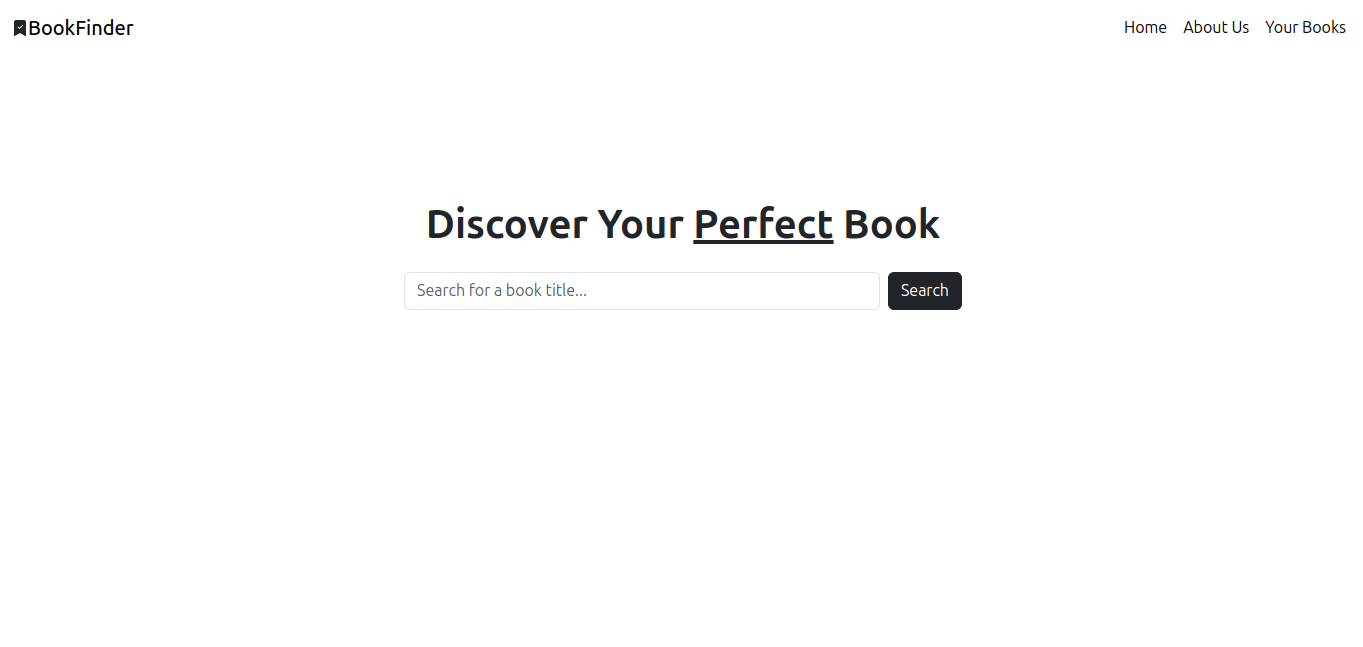
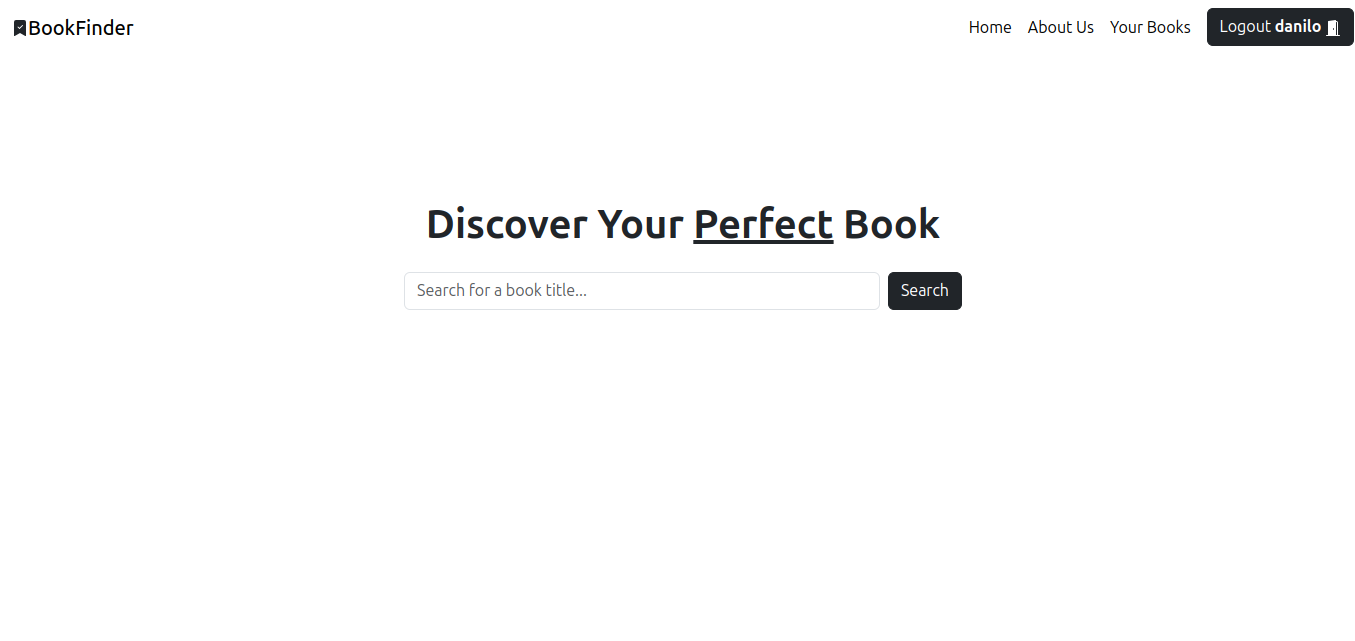
Added Authentication and Authorization

diff --git a/Templates/base.html b/Templates/base.html
@@ -25,6 +25,28 @@
               <li class="nav-item">
                 <a class="nav-link active" aria-current="page" href="{% url 'book-list' %}">Your Books</a>
               </li>
+              {% if user.is_authenticated %}
+              <li class="nav-item">
+                <form id="logout-form" method="post" action="{% url 'logout' %}">
+                  {% csrf_token %}
+                  <button type="submit" class="btn btn-dark ms-2">Logout <b>{{ user.get_username }}</b>
+                    <svg xmlns="http://www.w3.org/2000/svg" width="16" height="16" fill="currentColor" class="bi bi-door-open-fill" viewBox="0 0 16 16">
+                      <path d="M1.5 15a.5.5 0 0 0 0 1h13a.5.5 0 0 0 0-1H13V2.5A1.5 1.5 0 0 0 11.5 1H11V.5a.5.5 0 0 0-.57-.495l-7 1A.5.5 0 0 0 3 1.5V15zM11 2h.5a.5.5 0 0 1 .5.5V15h-1zm-2.5 8c-.276 0-.5-.448-.5-1s.224-1 .5-1 .5.448.5 1-.224 1-.5 1"/>
+                    </svg>
+                  </button>
+
+                </form>
+              </li>
+              {% else %}
+              <li class="nav-item ms-2">
+                <a class="btn btn-dark" aria-current="page" href="{% url 'login' %}">
+                  <span><b>Login</b></span>
+                  <svg xmlns="http://www.w3.org/2000/svg" width="16" height="16" fill="currentColor" class="bi bi-door-open-fill" viewBox="0 0 16 16">
+                    <path d="M1.5 15a.5.5 0 0 0 0 1h13a.5.5 0 0 0 0-1H13V2.5A1.5 1.5 0 0 0 11.5 1H11V.5a.5.5 0 0 0-.57-.495l-7 1A.5.5 0 0 0 3 1.5V15zM11 2h.5a.5.5 0 0 1 .5.5V15h-1zm-2.5 8c-.276 0-.5-.448-.5-1s.224-1 .5-1 .5.448.5 1-.224 1-.5 1"/>
+                  </svg>
+                </a>
+              </li>
+              {% endif %}
             </ul>
           </div>
         </div>

diff --git a/Templates/registration/login.html b/Templates/registration/login.html
@@ -1,0 +1,48 @@
+{% extends 'base.html' %}
+
+{% block 'content_main' %}
+<div class="container">
+  <div class="card mt-4 mx-auto" style="width:450px">
+    <div class="mt-4 mx-5 text-center">
+
+
+
+
+      <form method="post" action="{% url 'login' %}">
+      {% csrf_token %}
+      <div class="mb-4">
+        <h5>Login <b>BookFinder</b></h5>
+      </div>
+      <table class="">
+        <tr>
+          <td class="pe-3">{{ form.username.label_tag }}</td>
+          <td>{{ form.username }}</td>
+        </tr>
+        <tr>
+          <td class="pe-3">{{ form.password.label_tag }}</td>
+          <td>{{ form.password }}</td>
+        </tr>
+      </table>
+      <button class="btn btn-dark mb-1 mt-3" type="submit" value="Login">Login</button>
+      <input type="hidden" name="next" value="{{ next }}">
+      </form>
+      <div class="mt-2">
+        <p><a class="text-dark" href="{% url 'password_reset' %}">Lost password?</a></p>
+      </div>
+
+
+      {% if next %}
+      {% if user.is_authenticated %}
+        <p>Your account doesn't have access to this page. To proceed,
+        please login with an account that has access.</p>
+      {% else %}
+        <p class="text-dark">Please login to see this page.</p>
+      {% endif %}
+      {% endif %}
+      {% if form.errors %}
+      <p class="text-warning">Your username and password didn't match. Please try again.</p>
+      {% endif %}
+    </div>
+  </div>
+</div>
+{% endblock %}

diff --git a/Books/templates/books.html b/Books/templates/books.html
@@ -34,11 +34,11 @@
   {% else %}
     <div class="text-center py-5">
       <div class="mb-4">
-        <svg xmlns="http://www.w3.org/2000/svg" width="64" height="64" fill="currentColor" class="bi bi-book text-muted" viewBox="0 0 16 16">
+        <svg xmlns="http://www.w3.org/2000/svg" width="48" height="48" fill="currentColor" class="bi bi-book text-dark" viewBox="0 0 16 16">
           <path d="M1 2.828c.885-.37 2.154-.769 3.388-.893 1.33-.134 2.458.063 3.112.752v9.746c-.935-.53-2.12-.603-3.213-.493-1.18.12-2.37.461-3.287.811zm7.5-.141c.654-.689 1.782-.886 3.112-.752 1.234.124 2.503.523 3.388.893v9.923c-.918-.35-2.107-.692-3.287-.81-1.094-.111-2.278-.039-3.213.492zM8 1.783C7.015.936 5.587.81 4.287.94c-1.514.153-3.042.672-3.994 1.105A.5.5 0 0 0 0 2.5v11a.5.5 0 0 0 .707.455c.882-.4 2.303-.881 3.68-1.02 1.409-.142 2.59.087 3.223.877a.5.5 0 0 0 .78 0c.633-.79 1.814-1.019 3.222-.877 1.378.139 2.8.62 3.681 1.02A.5.5 0 0 0 16 13.5v-11a.5.5 0 0 0-.293-.455c-.952-.433-2.48-.952-3.994-1.105C10.413.809 8.985.936 8 1.783"/>
         </svg>
       </div>
-      <h3 class="text-muted">No books in your collection yet</h3>
+      <h4 class="text-dark">No books in your collection yet</h4>
       <p class="text-muted mb-4">Start building your library by searching for books</p>
       <a href="{% url 'home' %}" class="btn btn-dark btn-lg px-4 py-2">Search Books</a>
     </div>

diff --git a/Templates/registration/password_reset_confirm.html b/Templates/registration/password_reset_confirm.html
@@ -1,0 +1,34 @@
+{% extends "base.html" %}
+
+{% block 'content_main' %}
+<div class="container text-center">
+  <div class="card mt-4 mx-auto" style="width:450px">
+    <div class="mt-4 mx-4 mb-4">
+      {% if validlink %}
+        <p>Please enter (and confirm) your new <b>password</b>.</p>
+        <form action="" method="post">
+          {% csrf_token %}
+          <div class="mb-3 text-center">
+            <label for="{{ form.new_password1.id_for_label }}" class="d-block mb-2">Password</label>
+            {{ form.new_password1 }}
+          </div>
+          <div class="mb-3 text-center">
+            <label for="{{ form.new_password2.id_for_label }}" class="d-block mb-2">Confirm Password</label>
+            {{ form.new_password2 }}
+          </div>
+          <div class="mb-3">
+            {{ form.new_password1.errors|striptags }}
+            {{ form.new_password2.errors|striptags }}
+          </div>
+          <div>
+            <input type="submit" value="Change my password" class="btn btn-dark mt-3">
+          </div>
+        </form>
+      {% else %}
+        <h1>Password reset failed</h1>
+        <p>The password reset link was invalid, possibly because it has already been used. Please request a new password reset.</p>
+      {% endif %}
+    </div>
+  </div>
+</div>
+{% endblock %}

diff --git a/Templates/registration/password_reset_done.html b/Templates/registration/password_reset_done.html
@@ -1,0 +1,11 @@
+{% extends "base.html" %}
+
+{% block 'content_main' %}
+<div class="mx-auto text-center mt-5">
+  <h4>We've emailed you instructions for setting your password.</h4>
+  <h5>If they haven't arrived in a few minutes, check your spam folder.</h5>
+  <svg xmlns="http://www.w3.org/2000/svg" width="48" height="48" fill="currentColor" class="bi bi-book text-dark" viewBox="0 0 16 16">
+    <path d="M1 2.828c.885-.37 2.154-.769 3.388-.893 1.33-.134 2.458.063 3.112.752v9.746c-.935-.53-2.12-.603-3.213-.493-1.18.12-2.37.461-3.287.811zm7.5-.141c.654-.689 1.782-.886 3.112-.752 1.234.124 2.503.523 3.388.893v9.923c-.918-.35-2.107-.692-3.287-.81-1.094-.111-2.278-.039-3.213.492zM8 1.783C7.015.936 5.587.81 4.287.94c-1.514.153-3.042.672-3.994 1.105A.5.5 0 0 0 0 2.5v11a.5.5 0 0 0 .707.455c.882-.4 2.303-.881 3.68-1.02 1.409-.142 2.59.087 3.223.877a.5.5 0 0 0 .78 0c.633-.79 1.814-1.019 3.222-.877 1.378.139 2.8.62 3.681 1.02A.5.5 0 0 0 16 13.5v-11a.5.5 0 0 0-.293-.455c-.952-.433-2.48-.952-3.994-1.105C10.413.809 8.985.936 8 1.783"/>
+  </svg>
+</div>
+{% endblock %}

diff --git a/Templates/registration/password_reset_form.html b/Templates/registration/password_reset_form.html
@@ -1,0 +1,25 @@
+{% extends "base.html" %}
+
+{% block 'content_main' %}
+<div class="container text-center">
+  <div class="card mt-4 mx-auto" style="width:450px">
+    <div class="mt-4 mx-4 mb-4">
+
+      <form action="" method="post">
+      {% csrf_token %}
+          <div class="mb-4">
+            <h5>Change <b>password</b></h5>
+            <small class="text-muted">Please enter your email in example@email.com</small>
+          </div>
+          <p>{{ form.email }}</p>
+        <input type="submit" class="btn btn-dark btn-sm" value="Reset password">
+      </form>
+      <div class="text-center mt-4">
+        {% if form.email.errors %}
+        {{ form.email.errors|striptags }}
+        {% endif %}
+      </div>
+    </div>
+  </div>
+</div>
+{% endblock %}

diff --git a/Templates/registration/logged_out.html b/Templates/registration/logged_out.html
@@ -1,0 +1,9 @@
+{% extends 'base.html'%}
+
+{% block 'content_main' %}
+  <div class="container mx-auto text-center mt-5">
+    <h3>Logged out!</h3>
+    <a class="text-dark" href="{% url 'login'%}">Click here to login again.</a>
+
+  </div>
+{% endblock %}

diff --git a/Templates/registration/password_reset_complete.html b/Templates/registration/password_reset_complete.html
@@ -1,0 +1,8 @@
+{% extends "base.html" %}
+
+{% block 'content_main' %}
+<div class="text-center mt-5">
+  <h3>The password has been changed!</h3>
+  <p><a class="text-dark"href="{% url 'login' %}">Log in again?</a></p>
+</div>
+{% endblock %}

diff --git a/Templates/registration/password_reset_email.html b/Templates/registration/password_reset_email.html
@@ -1,0 +1,2 @@
+Someone asked for password reset for email {{ email }}. Follow the link below:
+{{ protocol }}://{{ domain }}{% url 'password_reset_confirm' uidb64=uid token=token %}

diff --git a/Books/views.py b/Books/views.py
@@ -5,6 +5,7 @@ from dotenv import load_dotenv
 from http import HTTPStatus
 import requests
 from .models import Book
+from django.contrib.auth.mixins import LoginRequiredMixin
 
 load_dotenv()
 api_key = os.getenv('API_KEY')
@@ -56,9 +57,10 @@ class About(View):
         return render(request, 'about.html')
 
 
-class BooksView(View):
+
+class BooksView(LoginRequiredMixin, View):
     def get(self, request):
-        saved_books = Book.objects.all()
+        saved_books = Book.objects.filter(user=request.user)
         books_values = list(saved_books.values('title', 'image_link', 'book_id'))
         return render(request, 'books.html', {'books': books_values})
     def post(self, request, id):
@@ -108,7 +110,7 @@ class Search(View):
         return render(request, 'home.html')
 
 
-class BookView(View):
+class BookView(LoginRequiredMixin, View):
     def get(self, request, id):
         book = get_data_with_id(id)
         is_saved = Book.objects.filter(book_id=id)
@@ -126,7 +128,12 @@ class BookView(View):
             page_count=book.get('page_count'),
             image_link=book.get('image'),
             buy_link=book.get('buy_link'),
-            book_id=book.get('id')
+            book_id=book.get('id'),
+            user=request.user
         )
         book_new_object.save()
         return redirect('/books')
+
+class Login(View):
+    def get(self, request):
+        return render(request, 'login.html')

diff --git a/Books/models.py b/Books/models.py
@@ -1,4 +1,5 @@
 from django.db import models
+from django.conf import settings
 
 
 class Book(models.Model):
@@ -8,11 +9,11 @@ class Book(models.Model):
     published_date = models.CharField(max_length=10)
     description = models.TextField()
     page_count = models.IntegerField()
-    image_link = models.CharField()
-    buy_link = models.CharField()
-    book_id = models.CharField()
+    image_link = models.CharField(max_length=500)
+    buy_link = models.CharField(max_length=500)
+    book_id = models.CharField(max_length=100)
     is_saved = models.BooleanField(default=True)
+    user = models.ForeignKey(settings.AUTH_USER_MODEL, on_delete=models.SET_NULL, null=True, blank=True)
 
-
-def __str__(self):
-    return f'{self.title} | {self.author}'
+    def __str__(self):
+        return f'{self.title} | {self.author}'

diff --git a/Books/migrations/0006_alter_book_book_id_alter_book_buy_link_and_more.py b/Books/migrations/0006_alter_book_book_id_alter_book_buy_link_and_more.py
@@ -1,0 +1,28 @@
+# Generated by Django 5.1.7 on 2025-03-17 02:59
+
+from django.db import migrations, models
+
+
+class Migration(migrations.Migration):
+
+    dependencies = [
+        ('Books', '0005_rename_borrower_book_user'),
+    ]
+
+    operations = [
+        migrations.AlterField(
+            model_name='book',
+            name='book_id',
+            field=models.CharField(max_length=100),
+        ),
+        migrations.AlterField(
+            model_name='book',
+            name='buy_link',
+            field=models.CharField(max_length=500),
+        ),
+        migrations.AlterField(
+            model_name='book',
+            name='image_link',
+            field=models.CharField(max_length=500),
+        ),
+    ]
